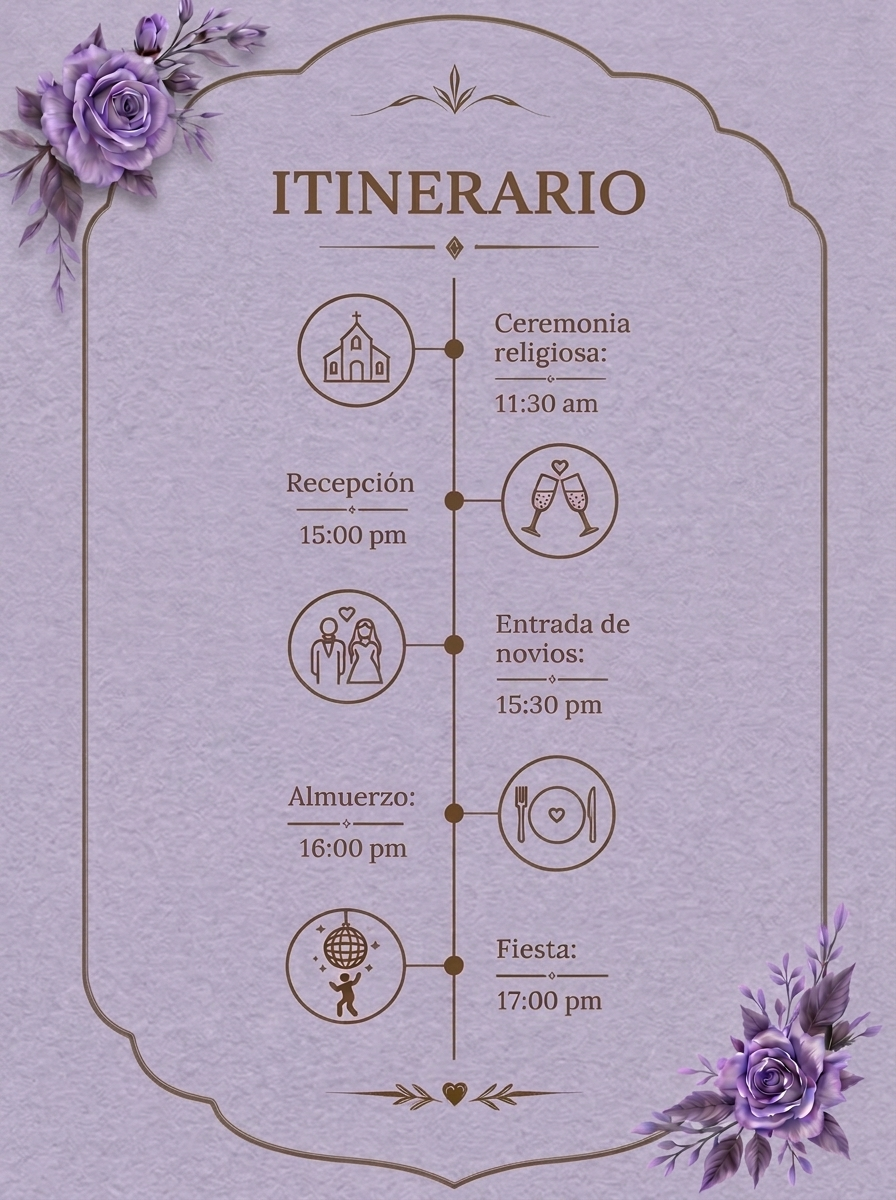
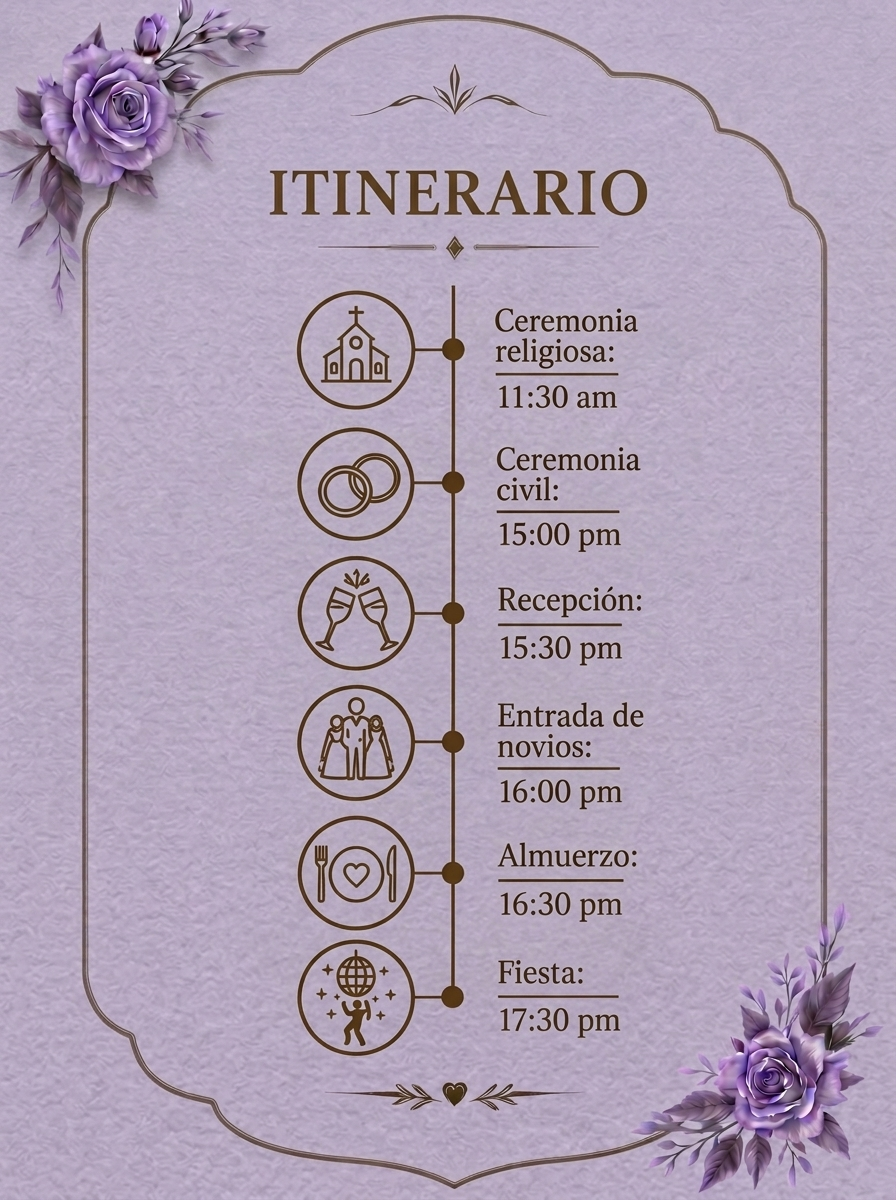
first commitnn

diff --git a/index.html b/index.html
@@ -203,7 +203,7 @@ img {
 .btn-ubicacion, .btn-confirmar { border-color: #614e1a; }
 
 .capsula-tiempo h3, .capsula-tiempo p, .preparate, .nos-vemos, .timer-grid, .timer-item,
-.timer-item span, .timer-label, .colon { color: #72550d !important; }
+.timer-item span, .timer-label, .colon { color: #5e470f !important; }
 
 /* ===== TARJETA INVITADO ===== */
 .tarjeta-invitado {
